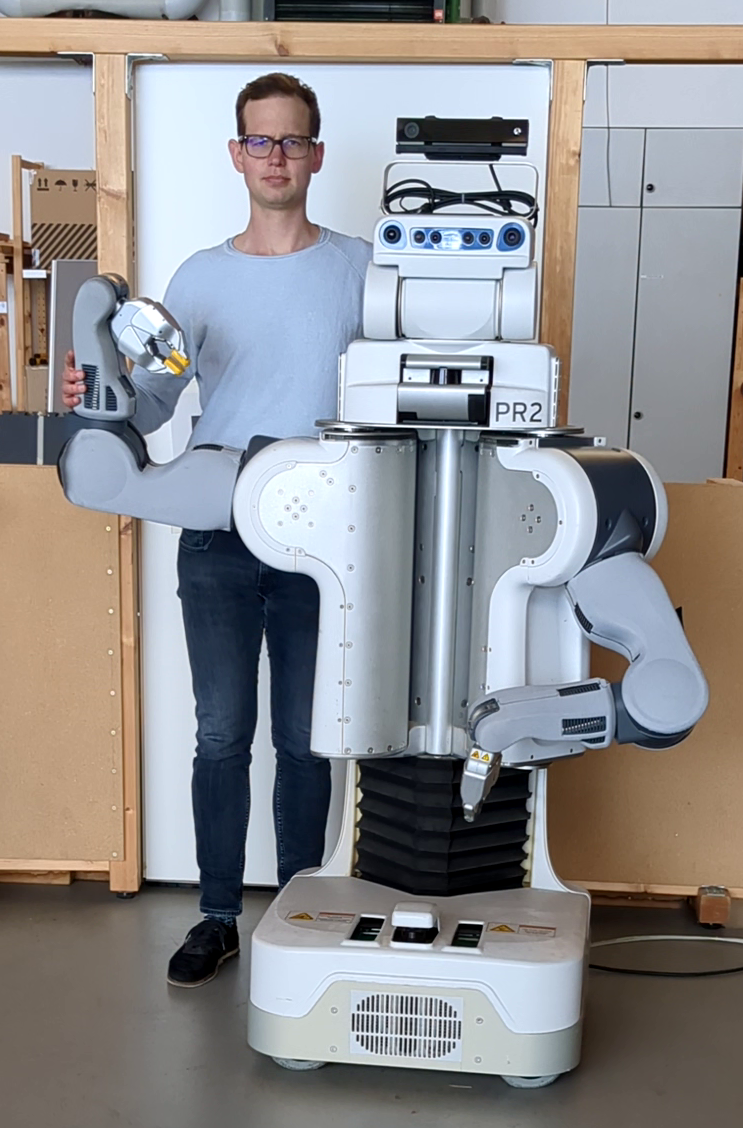
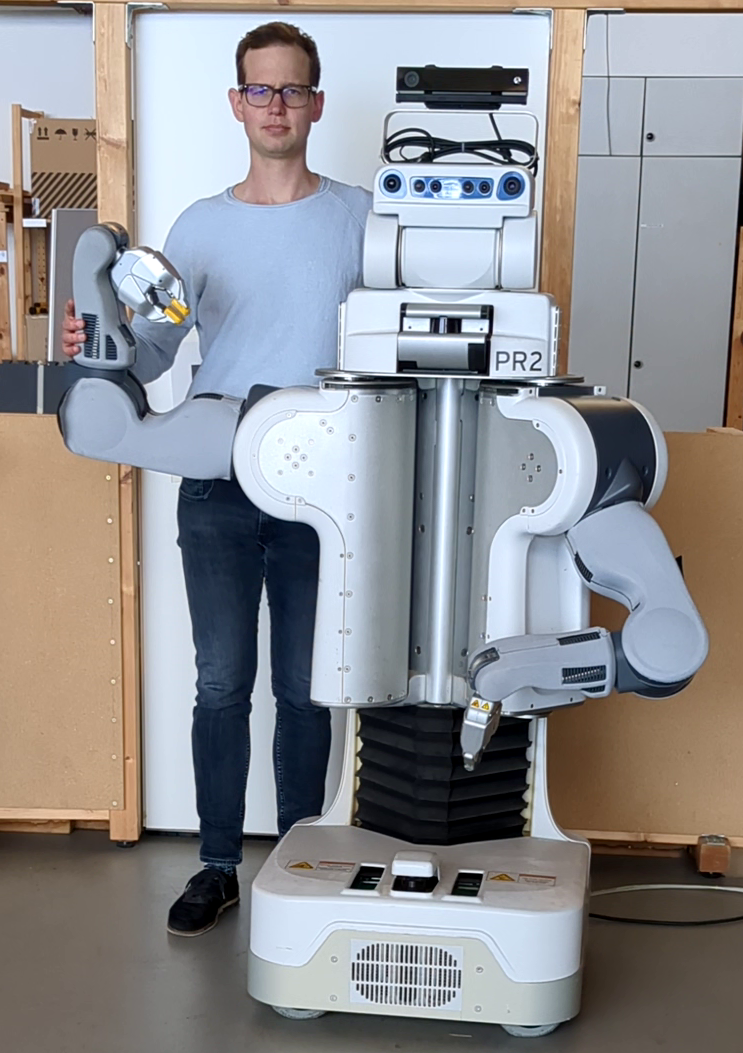
update

diff --git a/_pages/about.md b/_pages/about.md
@@ -21,30 +21,30 @@ an environment during my PhD.
 
 # Publications
 
-[Task-Driven Co-Design of Mobile Manipulators](https://moma-codesign.cs.uni-freiburg.de/), Raphael Schneider\*, Daniel Honerkamp\*, Tim Welschehold, Abhinav Valada, arXiv preprint arXiv:2412.16635, 2024.
+[Task-Driven Co-Design of Mobile Manipulators](https://moma-codesign.cs.uni-freiburg.de/), Raphael Schneider\*, Daniel Honerkamp\*, Tim Welschehold, Abhinav Valada, _arXiv preprint arXiv:2412.16635_, 2024.
 
-[Whole‑Body Teleoperation for Mobile Manipulation at Zero Added Cost](https://moma-teleop.cs.uni-freiburg.de/), Daniel Honerkamp\*, Harsh Mahesheka\*, Jan Ole Hartz, Tim Welschehold, Abhinav Valada, IEEE Robotics and Automation Letters, 2025.
+[Whole‑Body Teleoperation for Mobile Manipulation at Zero Added Cost](https://moma-teleop.cs.uni-freiburg.de/), Daniel Honerkamp\*, Harsh Mahesheka\*, Jan Ole Hartz, Tim Welschehold, Abhinav Valada, _IEEE Robotics and Automation Letters (RA‑L)_, 2025.
 
-[Language‑Grounded Dynamic Scene Graphs for Interactive Object Search with Mobile Manipulation](https://moma-llm.cs.uni-freiburg.de/), Daniel Honerkamp\*, Martin Büchner\*, Fabien Despinoy, Tim Welschehold, Abhinav Valada, IEEE Robotics and Automation Letters, presentation at ICRA, 2024.
+[Language‑Grounded Dynamic Scene Graphs for Interactive Object Search with Mobile Manipulation](https://moma-llm.cs.uni-freiburg.de/), Daniel Honerkamp\*, Martin Büchner\*, Fabien Despinoy, Tim Welschehold, Abhinav Valada, _IEEE Robotics and Automation Letters (RA‑L)_, 2024.
 
-[Recent Trends in Insect and Robot Navigation through the Lens of Reinforcement Learning](https://arxiv.org/abs/2406.01501), Stephan Lochner, Daniel Honerkamp, Abhinav Valada, Andrew D Straw, Frontiers in Computational Neuroscience, 2024.
+[Recent Trends in Insect and Robot Navigation through the Lens of Reinforcement Learning](https://arxiv.org/abs/2406.01501), Stephan Lochner, Daniel Honerkamp, Abhinav Valada, Andrew D Straw, _Frontiers in Computational Neuroscience_, 2024.
 
-[Perception Matters: Enhancing Embodied AI with Uncertainty‑Aware Semantic Segmentation](https://semantic-search.cs.uni-freiburg.de/), Sai Prasanna\*, Daniel Honerkamp\*, Kshitij Sirohi\*, Tim Welschehold, Wolfram Burgard, Abhinav Valada, Robotics Research, presented at ISRR, 2024.
+[Perception Matters: Enhancing Embodied AI with Uncertainty‑Aware Semantic Segmentation](https://semantic-search.cs.uni-freiburg.de/), Sai Prasanna\*, Daniel Honerkamp\*, Kshitij Sirohi\*, Tim Welschehold, Wolfram Burgard, Abhinav Valada, _Robotics Research_, 2024.
 
-[N2M2: Learning Navigation for Arbitrary Mobile Manipulation Motions in Unseen and Dynamic Environments](https://mobile-rl.cs.uni-freiburg.de/), Daniel Honerkamp, Tim Welschehold, Abhinav Valada, IEEE Transactions on Robotics (T‑RO), presentated at ICRA, 2023.
+[N2M2: Learning Navigation for Arbitrary Mobile Manipulation Motions in Unseen and Dynamic Environments](https://mobile-rl.cs.uni-freiburg.de/), Daniel Honerkamp, Tim Welschehold, Abhinav Valada, _IEEE Transactions on Robotics (T‑RO)_, 2023.
 
-[Learning Hierarchical Interactive Multi‑Object Search for Mobile Manipulation](https://himos.cs.uni-freiburg.de/), Fabian Schmalstieg\*, Daniel Honerkamp\*, Tim Welschehold, Abhinav Valada, IEEE Robotics and Automation Letters (RA‑L), presentated at ICRA, 2023.
+[Learning Hierarchical Interactive Multi‑Object Search for Mobile Manipulation](https://himos.cs.uni-freiburg.de/), Fabian Schmalstieg\*, Daniel Honerkamp\*, Tim Welschehold, Abhinav Valada, _IEEE Robotics and Automation Letters (RA‑L)_, 2023.
 
-[Catch Me if You Hear Me: Audio‑Visual Navigation in Complex Unmapped Environments With Moving Sounds](https://dav-nav.cs.uni-freiburg.de/), Abdelrahman Younes\*, Daniel Honerkamp\*, Tim Welschehold, Abhinav Valada, IEEE Robotics and Automation Letters (RA‑L), presentated at IROS, 2023.
+[Catch Me if You Hear Me: Audio‑Visual Navigation in Complex Unmapped Environments With Moving Sounds](https://dav-nav.cs.uni-freiburg.de/), Abdelrahman Younes\*, Daniel Honerkamp\*, Tim Welschehold, Abhinav Valada, _IEEE Robotics and Automation Letters (RA‑L)_, 2023.
 
-[Learning Long‑Horizon Robot Exploration Strategies for Multi‑Object Search in Continuous Action Spaces](https://multi-object-search.cs.uni-freiburg.de/), Fabian Schmalstieg\*, Daniel Honerkamp\*, Tim Welschehold, Abhinav Valada, Robotics Research, presented at ISRR, 2022.
+[Learning Long‑Horizon Robot Exploration Strategies for Multi‑Object Search in Continuous Action Spaces](https://multi-object-search.cs.uni-freiburg.de/), Fabian Schmalstieg\*, Daniel Honerkamp\*, Tim Welschehold, Abhinav Valada, _Robotics Research_, 2022.
 
-[Active Particle Filter Networks: Efficient Active Localization in Continuous Action Spaces and Large Maps](https://apfn.cs.uni-freiburg.de/), Daniel Honerkamp, Suresh Guttikonda, Abhinav Valada, IROS Workshop on Probabilistic Robotics in the Age of Deep Learning, 2022.
+[Active Particle Filter Networks: Efficient Active Localization in Continuous Action Spaces and Large Maps](https://apfn.cs.uni-freiburg.de/), Daniel Honerkamp, Suresh Guttikonda, Abhinav Valada, _IROS Workshop on Probabilistic Robotics in the Age of Deep Learning_, 2022.
 
-[Learning Kinematic Feasibility for Mobile Manipulation through Deep Reinforcement Learning](https://kinematic-rl.cs.uni-freiburg.de/), Daniel Honerkamp, Tim Welschehold, Abhinav Valada, IEEE Robotics and Automation Letters (RA‑L), 2021.
+[Learning Kinematic Feasibility for Mobile Manipulation through Deep Reinforcement Learning](https://kinematic-rl.cs.uni-freiburg.de/), Daniel Honerkamp, Tim Welschehold, Abhinav Valada, _IEEE Robotics and Automation Letters (RA‑L)_, 2021.
 
 Democratising blockchain: A minimal agency consensus model, Marcin Abram, Daniel Honerkamp, Jon Ward, Jin‑Mann Wong,
-Proceedings of Tokenomics International Conference on Blockchain Economics, Security and Protocols, 2019.
+_Proceedings of Tokenomics International Conference on Blockchain Economics, Security and Protocols_, 2019.
 
 # Prices and Awards
 
